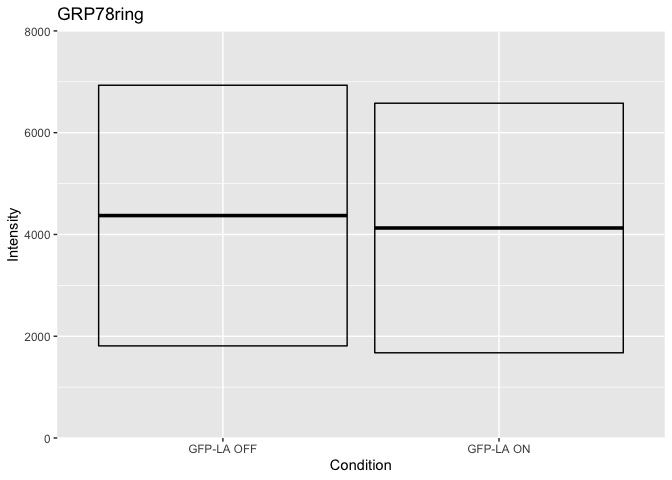
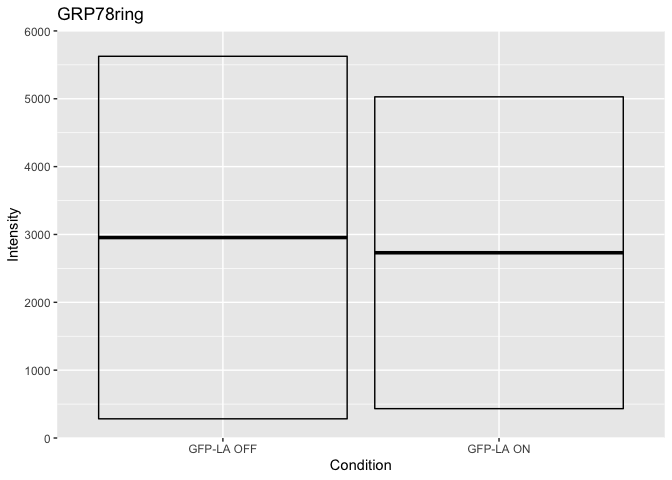
Add Figshare link and new data to Fig. S3C

diff --git a/Fig.S3C/GRP78_ring_quantification_TetON_LA.md b/Fig.S3C/GRP78_ring_quantification_TetON_LA.md
@@ -1,24 +1,40 @@
 Figure S3C: TETON Cells / GRP78
 ================
 Sandra Vidak
-November 4th 2022
+January 13th 2023
 
 ``` r
 library(ggplot2)
 library(ggthemes)
+library(curl)
 ```
 
-### Read Data for Fig S5D
+    ## Using libcurl 7.79.1 with LibreSSL/3.3.6
+
+Download and unzip the Columbus results of the experiments from Figshare
+if they have not been already downloaded.
+
+``` r
+if(!dir.exists("input")) {
+  URL <- "https://figshare.com/ndownloader/files/38669303"
+  curl_download(URL, "input.zip")
+  unzip("input.zip")
+}
+```
+
+### Read Data for Fig S3C
 
 Import and filter data and calculate sum and mean of the GRP78
 peripheral recruitment for each biological replicate in TetON
 fibroblasts.
 
 ``` r
-GRP78_ring_1 <- read.csv(file="input/GRP78ring1.csv") 
+GRP78_ring_1 <- read.csv(file="input/GRP78ring1.csv") #Import dataset Biological replicate_1
+
 GRP78_ring_1_filtered <- GRP78_ring_1 [ c(seq(1, nrow(GRP78_ring_1),4)), c("Intensity.Nucleus.3", "Intensity.Nucleus.4")]
 
 GRP78_ring_1_filtered_rowsum <- rowSums(GRP78_ring_1_filtered[,1:2])
+
 
 Mean_Uninduced_GRP78_1 <- mean(GRP78_ring_1_filtered_rowsum[1:3])
 
@@ -26,11 +42,12 @@ Mean_Induced_4days_GRP78_1 <- mean(GRP78_ring_1_filtered_rowsum[7:9])
 ```
 
 ``` r
-GRP78_ring_2 <- read.csv(file="input/GRP78ring1.csv") 
+GRP78_ring_2 <- read.csv(file="input/GRP78ring2.csv") #Import dataset Biological replicate_2
 
-GRP78_ring_2_filtered <- GRP78_ring_2 [ c(seq(3, nrow(GRP78_ring_2),4)), c("Intensity.Nucleus.3", "Intensity.Nucleus.4")]
+GRP78_ring_2_filtered <- GRP78_ring_2 [ c(seq(1, nrow(GRP78_ring_2),4)), c("Intensity.Nucleus.3", "Intensity.Nucleus.4")]
 
 GRP78_ring_2_filtered_rowsum <- rowSums(GRP78_ring_2_filtered[,1:2])
+
 
 Mean_Uninduced_GRP78_2 <- mean(GRP78_ring_2_filtered_rowsum[1:3])
 
@@ -38,21 +55,26 @@ Mean_Induced_4days_GRP78_2 <- mean(GRP78_ring_2_filtered_rowsum[7:9])
 ```
 
 ``` r
-GRP78_ring_3 <- read.csv(file="input/GRP78ring2.csv") 
+GRP78_ring_3 <- read.csv(file="input/GRP78ring3.csv") #Import dataset Biological replicate_3
 
-GRP78_ring_3_filtered <- GRP78_ring_3 [ c(seq(1, nrow(GRP78_ring_3),4)), c("Intensity.Nucleus.3", "Intensity.Nucleus.4")]
+GRP78_ring_3_filtered <- GRP78_ring_3 [ c(seq(7, nrow(GRP78_ring_3),4)), c("Intensity.Nucleus.3", "Intensity.Nucleus.4")]
 
 GRP78_ring_3_filtered_rowsum <- rowSums(GRP78_ring_3_filtered[,1:2])
 
 Mean_Uninduced_GRP78_3 <- mean(GRP78_ring_3_filtered_rowsum[1:3])
 
-Mean_Induced_4days_GRP78_3 <- mean(GRP78_ring_3_filtered_rowsum[7:9])
+GRP78_ring_3_filtered_Induced <- GRP78_ring_3 [ c(seq(25, nrow(GRP78_ring_3),4)), c("Intensity.Nucleus.3", "Intensity.Nucleus.4")]
+
+GRP78_ring_3_filtered_rowsum_Induced <- rowSums(GRP78_ring_3_filtered_Induced[,1:2])
+
+Mean_Induced_4days_GRP78_3 <- mean(GRP78_ring_3_filtered_rowsum_Induced[1:3])
 ```
 
 ``` r
 GRP78_Uninduced <- c(Mean_Uninduced_GRP78_1, Mean_Uninduced_GRP78_2, Mean_Uninduced_GRP78_3)
 
 GRP78_Induced4days <- c(Mean_Induced_4days_GRP78_1, Mean_Induced_4days_GRP78_2, Mean_Induced_4days_GRP78_3)
+
 
 GRP78_df <- data.frame (GRP78_Uninduced,GRP78_Induced4days)
 rownames(GRP78_df) <- c("Biological replicate1", "Biological replicate2", "Biological replicate3")
@@ -73,7 +95,7 @@ Condition <- rep(c("GFP-LA OFF","GFP-LA ON"), each=1)
 GRP78_plot <- data.frame(Mean_GRP78_levels2,SD_GRP78_levels2, Condition )
 ```
 
-### Biological Replicates Level plot for Fig.S5D
+### Biological Replicates Level plot for Fig.S3C
 
 ![](output/Fig_S3C-1.png)<!-- -->
 
@@ -83,7 +105,7 @@ Document the information about the analysis session
 sessionInfo()
 ```
 
-    ## R version 4.2.1 (2022-06-23)
+    ## R version 4.2.2 (2022-10-31)
     ## Platform: x86_64-apple-darwin17.0 (64-bit)
     ## Running under: macOS Big Sur ... 10.16
     ## 
@@ -98,15 +120,15 @@ sessionInfo()
     ## [1] stats     graphics  grDevices utils     datasets  methods   base     
     ## 
     ## other attached packages:
-    ## [1] ggthemes_4.2.4 ggplot2_3.3.6 
+    ## [1] curl_4.3.3     ggthemes_4.2.4 ggplot2_3.3.6 
     ## 
     ## loaded via a namespace (and not attached):
-    ##  [1] highr_0.9        pillar_1.8.1     compiler_4.2.1   tools_4.2.1     
+    ##  [1] highr_0.9        pillar_1.8.1     compiler_4.2.2   tools_4.2.2     
     ##  [5] digest_0.6.30    evaluate_0.17    lifecycle_1.0.3  tibble_3.1.8    
     ##  [9] gtable_0.3.1     pkgconfig_2.0.3  rlang_1.0.6      cli_3.4.1       
     ## [13] DBI_1.1.3        rstudioapi_0.14  yaml_2.3.6       xfun_0.34       
     ## [17] fastmap_1.1.0    withr_2.5.0      stringr_1.4.1    dplyr_1.0.10    
-    ## [21] knitr_1.40       generics_0.1.3   vctrs_0.5.0      grid_4.2.1      
+    ## [21] knitr_1.40       generics_0.1.3   vctrs_0.5.0      grid_4.2.2      
     ## [25] tidyselect_1.2.0 glue_1.6.2       R6_2.5.1         fansi_1.0.3     
     ## [29] rmarkdown_2.17   farver_2.1.1     purrr_0.3.5      magrittr_2.0.3  
     ## [33] scales_1.2.1     htmltools_0.5.3  assertthat_0.2.1 colorspace_2.0-3
